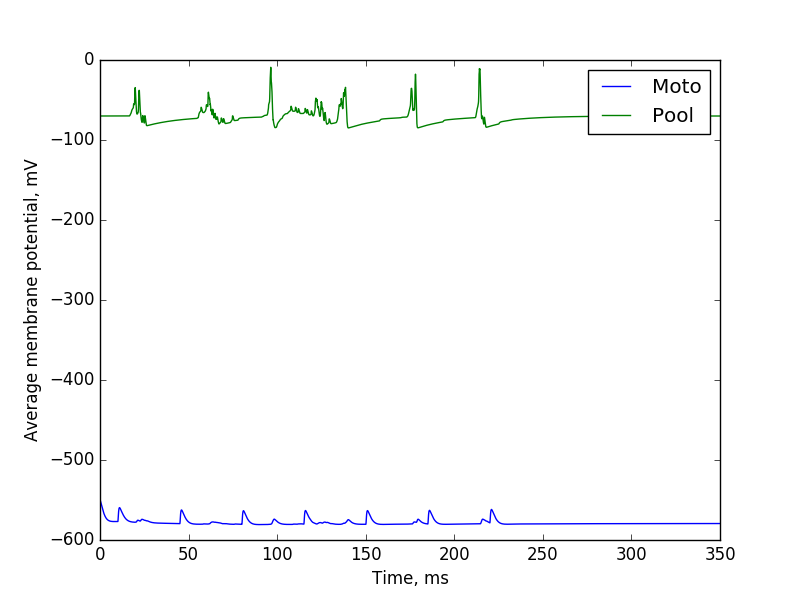
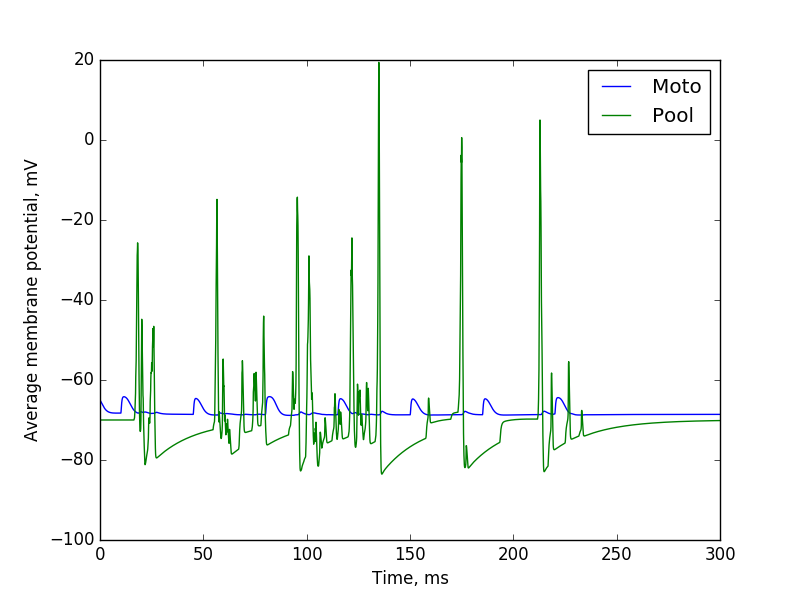
miner corrected

diff --git a/the_second_level/src/tools/miner.py b/the_second_level/src/tools/miner.py
@@ -7,6 +7,7 @@ class Miner:
 
     @staticmethod
     def gather_voltage(name: str):
+        neurons = []
         values = dict()
         logging.warning('Searching for {}'.format(name))
         for datafile in os.listdir(raw_data_path):
@@ -15,11 +16,13 @@ class Miner:
                 with open(os.path.join(raw_data_path, datafile)) as data:
                     for line in data:
                         gid, time, value = line.split()
+                        if gid not in neurons:
+                            neurons.append(gid)
                         if float(time) not in values.keys():
                             values[float(time)] = 0.
                         values[float(time)] += float(value)
         for time in values.keys():
-            values[float(time)] /= 20.
+            values[float(time)] /= float(len(neurons))
         return values
 
     @staticmethod

diff --git a/the_second_level/src/topology.py b/the_second_level/src/topology.py
@@ -274,7 +274,7 @@ class Topology:
             syn_spec={
                 'model': 'static_synapse',
                 'delay': .1,
-                'weight': 1000.
+                'weight': 1750.
             },
             conn_spec={
                 'rule': 'all_to_all'
@@ -326,7 +326,7 @@ class Topology:
                 syn_spec={
                     'model': 'static_synapse',
                     'delay': {'distribution': 'normal', 'mu': 0.7, 'sigma': 0.1},
-                    'weight': {'distribution': 'normal', 'mu': 35., 'sigma': 0.2}},
+                    'weight': {'distribution': 'normal', 'mu': 100., 'sigma': 0.2}},
                 conn_spec={
                     'rule': 'fixed_indegree',
                     'indegree': 5

diff --git a/the_second_level/bin/run.py b/the_second_level/bin/run.py
@@ -15,7 +15,7 @@ Cleaner.create_structure()
 
 from the_second_level.src.topology import Topology
 topology = Topology(int(sys.argv[1]))
-nest.Simulate(350.)
+nest.Simulate(300.)
 
 from the_second_level.src.tools.plotter import Plotter
 
